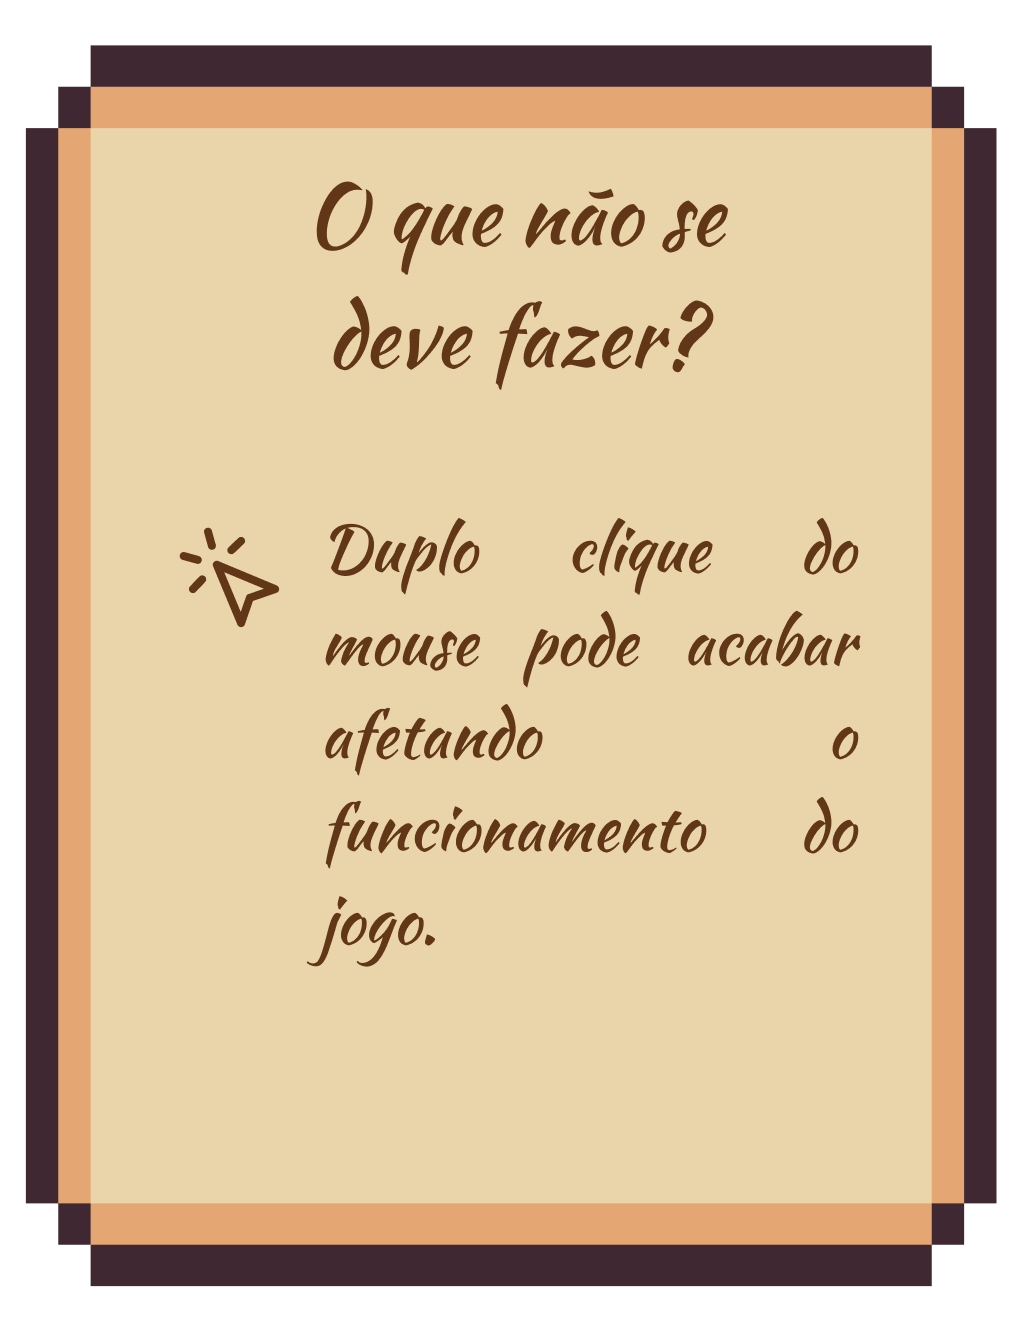
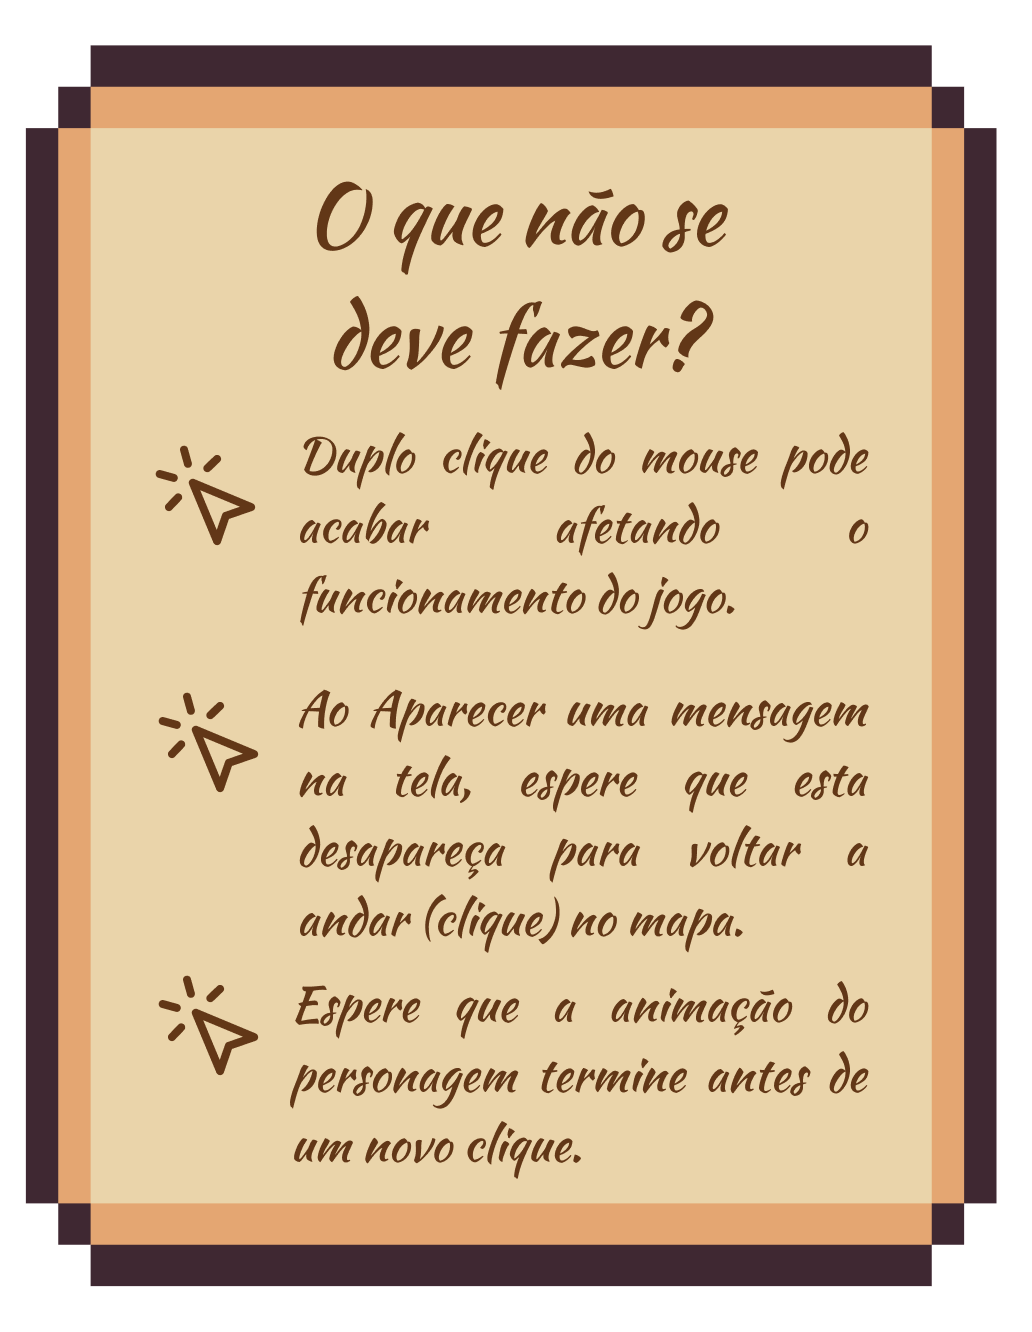
att readme

diff --git a/README.md b/README.md
@@ -21,6 +21,22 @@ pip install pygame
 4. Jogue: Após feito todo o processo com exito, basta executar o arquivo *main.py*.
 
 <p align="center">
+  <img src="/images/apresentação/Regras.png" alt="Regras">
+</p>
+
+<p align="center">
   <img src="/images/apresentação/Como Jogar.png" width="400" alt="Como jogar">
   <img src="/images/apresentação/O Que Não Se Deve Fazer.png" width="400" alt="O que não se deve fazer">
+</p>
+
+<p align="center">
+  <img src="/images/apresentação/Preview.png" alt="Preview">
+</p>
+
+<p align="center">
+  <img src="/images/apresentação/Tela Mapa.png" alt="Tela do Mapa">
+</p>
+
+<p align="center">
+  <img src="/images/apresentação/Tela Luta.png" alt="Tela de luta">
 </p>
